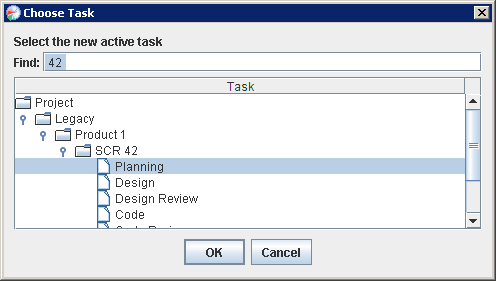
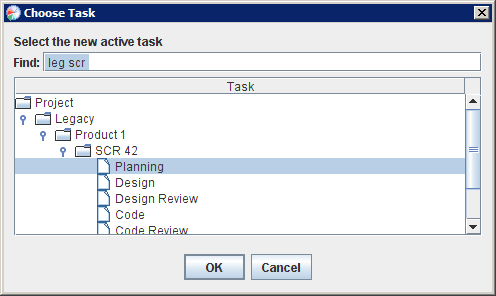
Tweak the behavior of the tree filtering on the quick select task dialog, so multiple filter strings can match anywhere in the path.
git-svn-id: https://svn.code.sf.net/p/processdash/code/trunk@3260 560cad82-bde2-470f-af40-e4e1f8d6548a

Changed region(s): [[0.0302, 0.1139, 0.9677, 0.968], [0.0, 0.0, 0.998, 0.0854], [0.9375, 0.6263, 0.9677, 0.6548]]

diff --git a/processdash/Templates/help/Topics/Execution/HierarchyMenus.html b/processdash/Templates/help/Topics/Execution/HierarchyMenus.html
@@ -144,9 +144,18 @@ you've selected).</p>
 <p><center><img src="../../Images/QuickSelectTaskWindow.png"></center></p>
 
 <p>As you type in the "Find" box, the list of selections will automatically be
-narrowed to show tasks containing the letters you've typed. In the example
-above, the user has typed "42" and the list has been narrowed to show tasks
-associated with SCR 42.</p>
+narrowed to show tasks containing all of the letters you've typed.
+Capitalization is not important, and you can enter multiple filters separated
+by spaces. In the example above, the user has typed "leg&nbsp;scr".  The first
+filter "leg" has narrowed the tree to show tasks under the "Legacy" portion of
+the hierarchy. The second filter "scr" has further narrowed the list to show
+Tasks with the letters "scr" in the name.  (The end result is that
+"leg&nbsp;scr" has narrowed the list to show tasks associated with legacy
+software change requests.)</p>
+
+<p>You can press the up and down arrow keys to select a specific task, and
+press the Enter key to change to the highlighted task.  In addition, you can
+click directly on a task to activate it.</p>
 
 </BODY>
 </HTML>

diff --git a/processdash/src/net/sourceforge/processdash/ui/lib/JFilterableTreeComponent.java b/processdash/src/net/sourceforge/processdash/ui/lib/JFilterableTreeComponent.java
@@ -54,6 +54,8 @@ public class JFilterableTreeComponent extends JPanel {
 
     JFilterableTreeTable treeTable;
 
+    boolean matchEntirePath;
+
     protected EventListenerList listenerList = new EventListenerList();
 
     private final SelectNodeAction selectNodeAction = new SelectNodeAction();
@@ -139,6 +141,17 @@ public class JFilterableTreeComponent extends JPanel {
         }
     }
 
+    public boolean isMatchEntirePath() {
+        return matchEntirePath;
+    }
+
+    public void setMatchEntirePath(boolean matchEntirePath) {
+        if (this.matchEntirePath != matchEntirePath) {
+            this.matchEntirePath = matchEntirePath;
+            refilter();
+        }
+    }
+
     public void refilter() {
         filter(filterTextField.getText());
     }
@@ -148,7 +161,8 @@ public class JFilterableTreeComponent extends JPanel {
             if (text == null || text.trim().length() == 0)
                 treeTable.setFilter(null);
             else
-                treeTable.setFilter(new NodeNamePatternMatcher(text));
+                treeTable.setFilter(new NodeNamePatternMatcher(text,
+                    matchEntirePath));
             selectFirstLeaf();
         } catch (Exception e1) {
             e1.printStackTrace();
@@ -159,15 +173,18 @@ public class JFilterableTreeComponent extends JPanel {
 
         private String[] patterns;
 
-        public NodeNamePatternMatcher(String text) {
-            patterns = text.toLowerCase().split("\\s+");
+        boolean matchEntirePath;
+
+        public NodeNamePatternMatcher(String text, boolean matchEntirePath) {
+            this.patterns = text.toLowerCase().split("\\s+");
+            this.matchEntirePath = matchEntirePath;
         }
 
-        public boolean test(Object treeNode) {
-            if (treeNode == null)
+        public boolean test(TreePath treePath) {
+            if (treePath == null)
                 return false;
 
-            String str = treeNode.toString().toLowerCase();
+            String str = getMatchStringForNode(treePath);
             for (int i = 0; i < patterns.length; i++) {
                 if (str.indexOf(patterns[i]) == -1)
                     return false;
@@ -175,6 +192,24 @@ public class JFilterableTreeComponent extends JPanel {
             return true;
         }
 
+        private String getMatchStringForNode(TreePath treePath) {
+            if (matchEntirePath == false) {
+                return asString(treePath.getLastPathComponent()).toLowerCase();
+            } else {
+                StringBuilder sb = new StringBuilder(256);
+                Object[] path = treePath.getPath();
+                int i = (treeTable.isRootVisible() ? 0 : 1);
+                while (i < path.length) {
+                    sb.append('/').append(asString(path[i++]).toLowerCase());
+                }
+                return sb.toString();
+            }
+        }
+
+    }
+
+    private String asString(Object obj) {
+        return (obj == null ? "" : obj.toString());
     }
 
     private void handleClick() {

diff --git a/processdash/src/net/sourceforge/processdash/ui/lib/JFilterableTreeTable.java b/processdash/src/net/sourceforge/processdash/ui/lib/JFilterableTreeTable.java
@@ -40,7 +40,7 @@ import javax.swing.tree.TreePath;
 public class JFilterableTreeTable extends JTreeTable {
 
     public interface Filter {
-        public boolean test(Object treeNode);
+        public boolean test(TreePath pathToTreeNode);
     }
 
     private TreeTableSorter sorter;
@@ -158,7 +158,7 @@ public class JFilterableTreeTable extends JTreeTable {
                 return false;
 
             Object node = path.getLastPathComponent();
-            boolean nodeIsMatch = parentMatches || filter.test(node);
+            boolean nodeIsMatch = parentMatches || filter.test(path);
 
             boolean childIsMatch = false;
             for (int i = tree.getModel().getChildCount(node);  i-- > 0; ) {

diff --git a/processdash/src/net/sourceforge/processdash/ui/QuickSelectTaskAction.java b/processdash/src/net/sourceforge/processdash/ui/QuickSelectTaskAction.java
@@ -89,6 +89,7 @@ public class QuickSelectTaskAction extends AbstractAction {
                 tasks, resources.getString("Choose_Task.Find"), false);
         final Object nodeToSelect = taskProvider
                 .getTreeNodeForPath(activeTaskModel.getPath());
+        selector.setMatchEntirePath(true);
         new JOptionPaneActionHandler().install(selector);
         Object[] message = new Object[] {
                 resources.getString("Choose_Task.Prompt"), selector,
